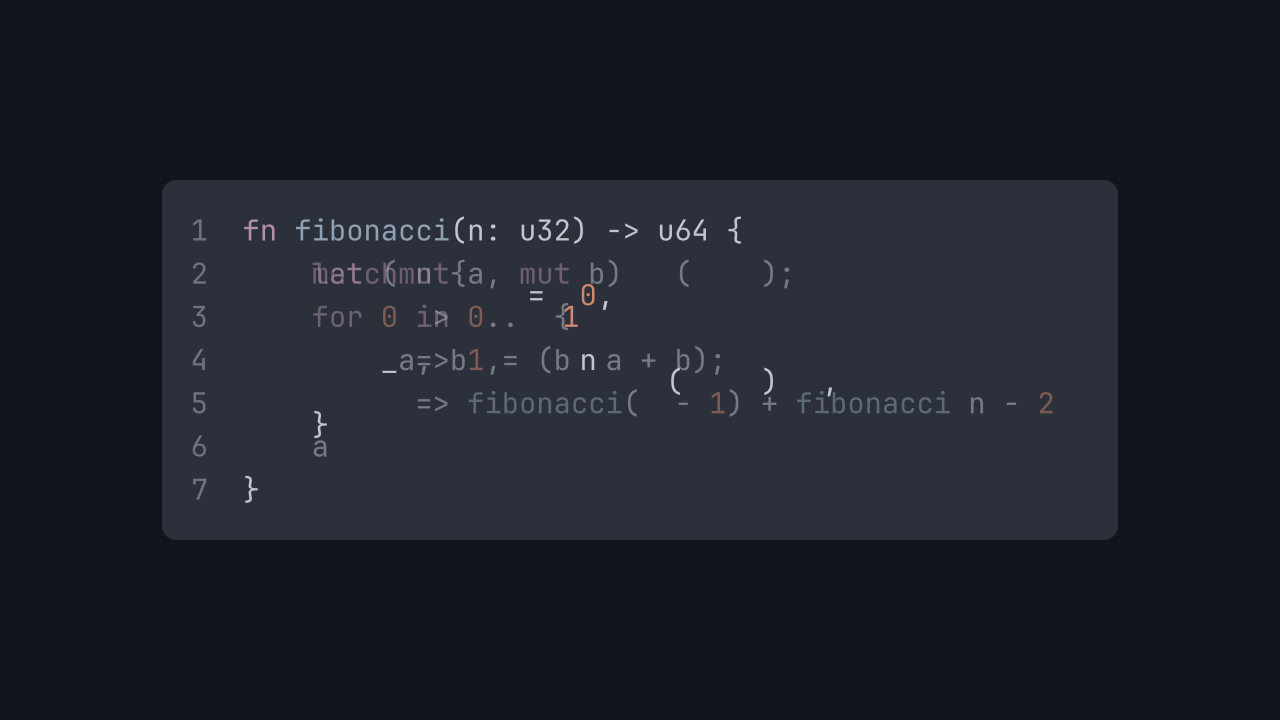
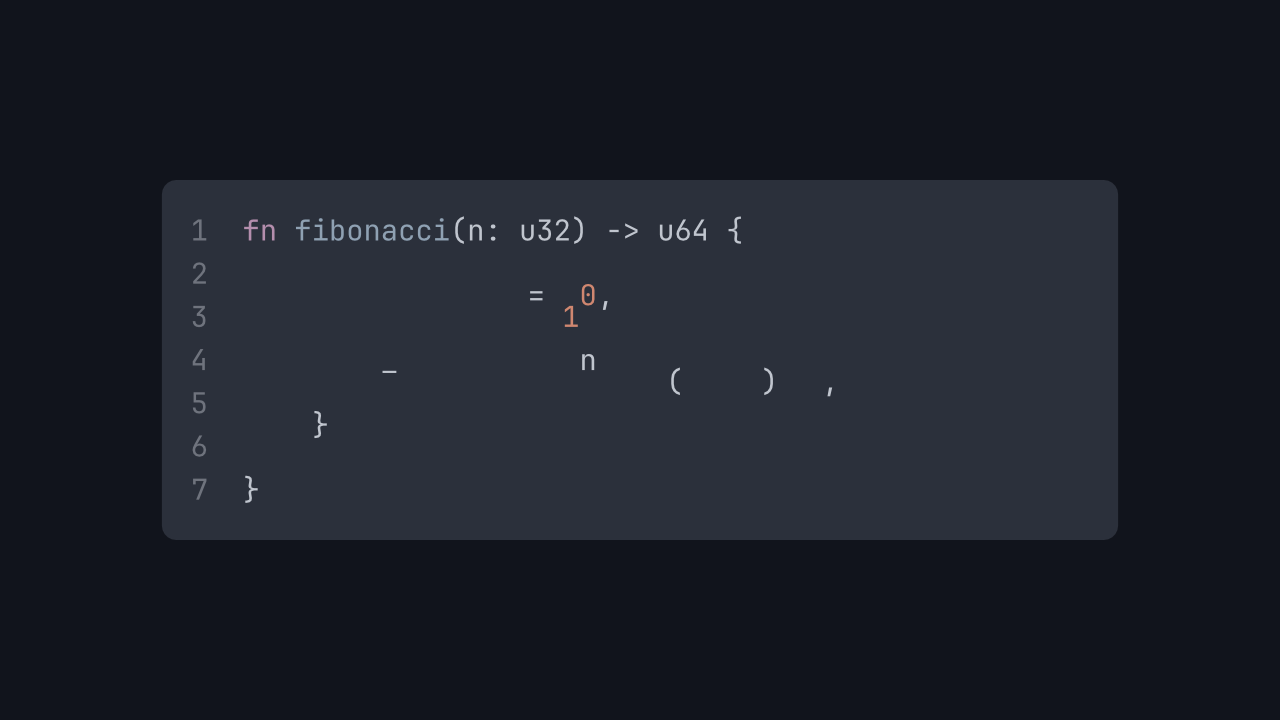
perf(code-snippets): fit animation work within the default sandbox

diff --git a/community/code-snippets/smoke.py b/community/code-snippets/smoke.py
@@ -55,7 +55,7 @@ TARGET = '''fn fibonacci(n: u32) -> u64 {
 
 def render(name, frame=0, **params):
     clip['kind'] = {'Plugin': {'plugin_id': 'org.animathio.community.code-snippets',
-                             'params': dict(code=CODE, code_to=TARGET, font_size=4.0, **params)}}
+                             'params': dict(dict(code=CODE, code_to=TARGET, font_size=4.0), **params)}}
     file = WORK / (name + '.amio')
     with zipfile.ZipFile(file, 'w', zipfile.ZIP_DEFLATED) as z:
         z.writestr('project.json', json.dumps(project))
@@ -65,7 +65,10 @@ def render(name, frame=0, **params):
     image = Image.open(io.BytesIO(png.read_bytes())).convert('RGB')
     # A placeholder or blank canvas must not pass as a successful render.
     colors = dict((rgb, count) for count, rgb in image.getcolors(image.width * image.height))
-    assert colors.get((43, 48, 59), 0) > 1000 if params.get('theme', 'ocean') == 'ocean' and params.get('background', True) else len(colors) > 20, name
+    if params.get('theme', 'ocean') == 'ocean' and params.get('background', True):
+        assert colors.get((43, 48, 59), 0) > 1000, name
+    else:
+        assert any(max(rgb) - min(rgb) > 30 for rgb in colors), name
     print('PASS', name)
     return image
 
@@ -78,8 +81,20 @@ for mode in ['reveal', 'morph']:
     assert frames[f'{mode}-050'].tobytes() != frames[f'{mode}-100'].tobytes()
 assert frames['reveal-100'].tobytes() == frames['morph-000'].tobytes()
 assert frames['morph-050'].tobytes() == render('repeat', mode='morph', progress=0.5).tobytes()
-for language in ['python','javascript','typescript','c','cpp','json','latex','tex','bash']:
-    render('language-' + language, language=language, progress=1)
+samples = {
+    'python': 'def greet(name):\n    # a comment\n    return f"Hello {name}"',
+    'javascript': 'const greet = (name) => "Hello " + name;',
+    'typescript': 'interface User { name: string; }\nconst user: User = { name: "Ada" };',
+    'c': 'int main(void) { /* comment */ return 42; }',
+    'cpp': 'template<typename T> T square(T x) { return x * x; }',
+    'c++': 'const auto answer = 42;',
+    'json': '{"name": "Ada", "active": true, "count": 42}',
+    'latex': r"\frac{a}{b} + \sqrt{2} % comment",
+    'tex': r"\begin{equation} e^{i\pi} + 1 = 0 \end{equation}",
+    'bash': '#!/bin/bash\nfor name in Ada Bob; do\n    echo "$name"\ndone',
+}
+for language, code in samples.items():
+    render('language-' + language.replace('+', 'plus'), language=language, code=code, progress=1)
 render('paper-lines', theme='paper', highlight_lines='2,4-6', reveal_by='line', progress=0.5)
 render('night-transparent', theme='night', background=False, line_numbers=False)
 # Verify the target endpoint against a static rendering with the same box dimensions.
@@ -93,6 +108,8 @@ clip['animations'] = [{'target': {'Param': 'progress'}, 'keys': {
     '705600000': {'value': {'Number': 1.0}, 'interpolation': 'Hold'}}}]
 assert frames['morph-050'].tobytes() == render('keyframed', frame=15, mode='morph', progress=0).tobytes()
 clip['animations'] = []
+render('bounded-lcs', code=('x;' * 16 + '\n') * 8, code_to=('y;' * 16 + '\n') * 8, mode='morph', progress=0.5)
+render('long-comment', code=('// ' + 'a' * 60 + '\n') * 16, progress=1)
 if '--screenshots' in sys.argv:
     out = ROOT / 'screenshots'
     out.mkdir(exist_ok=True)

diff --git a/community/code-snippets/src/lib.rs b/community/code-snippets/src/lib.rs
@@ -12,9 +12,9 @@ use animation::{matches, Token};
 use drawing::{color, Painter};
 
 const CODE: &str = "fn main() {\n    println!(\"Hello, AniMathIO!\");\n}";
-const MAX_BYTES: usize = 8192;
-const MAX_CHARS: usize = 2048;
-const MAX_TOKENS: usize = 512;
+const MAX_BYTES: usize = 4096;
+const MAX_CHARS: usize = 1024;
+const MAX_TOKENS: usize = 256;
 const MAX_LINES: usize = 80;
 struct CodeSnippets;
 
@@ -117,7 +117,7 @@ fn validate(code: &str) -> Result<String, Diagnostic> {
         || code.split('\n').count() > MAX_LINES
     {
         return Err(error(
-            "Code exceeds 8192 bytes, 2048 characters or 80 lines",
+            "Code exceeds 4096 bytes, 1024 characters or 80 lines",
         ));
     }
     // Tabs use four-column tab stops. CRLF has the same layout as LF.
@@ -142,7 +142,7 @@ fn validate(code: &str) -> Result<String, Diagnostic> {
         }
     }
     if result.chars().count() > MAX_CHARS {
-        return Err(error("Expanded tabs exceed 2048 characters"));
+        return Err(error("Expanded tabs exceed 1024 characters"));
     }
     Ok(result)
 }
@@ -219,7 +219,7 @@ fn tokenize(
         }
     }
     if tokens.len() > MAX_TOKENS {
-        return Err(error("Code exceeds 512 syntax tokens"));
+        return Err(error("Code exceeds 256 syntax tokens"));
     }
     Ok(tokens)
 }
@@ -431,6 +431,7 @@ fn render(params: &[ParamEntry], size: Size) -> Result<Scene, Diagnostic> {
             );
         }
     } else if morph {
+        let (travel, leave, enter) = animation::phases(progress);
         let pairs = matches(&old, &new);
         let mut used = vec![false; new.len()];
         for (i, token) in old.iter().enumerate() {
@@ -439,10 +440,10 @@ fn render(params: &[ParamEntry], size: Size) -> Result<Scene, Diagnostic> {
                 let to = &new[j];
                 painter.text(
                     &token.text,
-                    token.column + (to.column - token.column) * progress,
-                    token.line + (to.line - token.line) * progress,
-                    drawing::blend(token.color, to.color, progress),
-                    dim(token.line) + (dim(to.line) - dim(token.line)) * progress,
+                    token.column + (to.column - token.column) * travel,
+                    token.line + (to.line - token.line) * travel,
+                    drawing::blend(token.color, to.color, travel),
+                    dim(token.line) + (dim(to.line) - dim(token.line)) * travel,
                 );
             } else {
                 painter.text(
@@ -450,18 +451,17 @@ fn render(params: &[ParamEntry], size: Size) -> Result<Scene, Diagnostic> {
                     token.column,
                     token.line,
                     token.color,
-                    (1.0 - progress) * dim(token.line),
+                    leave * dim(token.line),
                 );
             }
         }
-        for (i, token) in new.iter().enumerate().filter(|(i, _)| !used[*i]) {
-            let _ = i;
+        for (_, token) in new.iter().enumerate().filter(|(i, _)| !used[*i]) {
             painter.text(
                 &token.text,
                 token.column,
                 token.line,
                 token.color,
-                progress * dim(token.line),
+                enter * dim(token.line),
             );
         }
     } else {

diff --git a/community/code-snippets/src/drawing.rs b/community/code-snippets/src/drawing.rs
@@ -21,6 +21,7 @@ pub fn blend(a: Color, b: Color, t: f32) -> Color {
 pub struct Painter<'a> {
     pub elements: Vec<DrawCommand>,
     font: Face<'a>,
+    glyphs: std::collections::BTreeMap<char, Vec<PathVerb>>,
     scale: f32,
     advance: f32,
     line_height: f32,
@@ -59,6 +60,7 @@ impl Painter<'static> {
         Self {
             elements: vec![],
             font,
+            glyphs: std::collections::BTreeMap::new(),
             scale,
             advance,
             line_height: font_size * fit * 1.5,
@@ -104,21 +106,44 @@ impl Painter<'static> {
             return;
         }
         for (index, c) in text.chars().enumerate() {
-            let glyph = self
-                .font
-                .glyph_index(c)
-                .or_else(|| self.font.glyph_index('\u{fffd}'))
-                .unwrap();
-            let mut outline = Outline {
-                path: vec![],
-                scale: self.scale,
-                x: self.x + (column + index as f32) * self.advance,
-                y: self.y + line * self.line_height,
+            let font = &self.font;
+            let scale = self.scale;
+            let path = self.glyphs.entry(c).or_insert_with(|| {
+                let glyph = font
+                    .glyph_index(c)
+                    .or_else(|| font.glyph_index('\u{fffd}'))
+                    .or_else(|| font.glyph_index('?'))
+                    .expect("embedded fallback glyph");
+                let mut outline = Outline {
+                    path: vec![],
+                    scale,
+                    x: 0.0,
+                    y: 0.0,
+                };
+                font.outline_glyph(glyph, &mut outline);
+                outline.path
+            });
+            let x = self.x + (column + index as f32) * self.advance;
+            let y = self.y + line * self.line_height;
+            let point = |p: &Point| Point {
+                x: p.x + x,
+                y: p.y + y,
             };
-            self.font.outline_glyph(glyph, &mut outline);
-            if !outline.path.is_empty() {
+            let translated = path
+                .iter()
+                .map(|v| match v {
+                    PathVerb::MoveTo(p) => PathVerb::MoveTo(point(p)),
+                    PathVerb::LineTo(p) => PathVerb::LineTo(point(p)),
+                    PathVerb::QuadTo((a, b)) => PathVerb::QuadTo((point(a), point(b))),
+                    PathVerb::CubicTo((a, b, c)) => {
+                        PathVerb::CubicTo((point(a), point(b), point(c)))
+                    }
+                    PathVerb::Close => PathVerb::Close,
+                })
+                .collect::<Vec<_>>();
+            if !translated.is_empty() {
                 self.elements
-                    .push(DrawCommand::FillPath((outline.path, color)));
+                    .push(DrawCommand::FillPath((translated, color)));
             }
         }
     }

diff --git a/community/code-snippets/src/animation.rs b/community/code-snippets/src/animation.rs
@@ -9,13 +9,30 @@ pub struct Token {
 }
 
 /// Bounded token LCS, with stable tie-breaking for repeated punctuation.
-/// At most 513² u16 cells (inputs are capped at 512 tokens before this call).
+/// At most 257² u16 cells (inputs are capped at 256 tokens before this call).
 pub fn matches(from: &[Token], to: &[Token]) -> Vec<Option<usize>> {
+    // Intern text once so the quadratic loop compares integers, not UTF-8 strings.
+    let mut vocabulary = std::collections::BTreeMap::new();
+    let mut next_id = 0u16;
+    let mut ids = |tokens: &[Token]| {
+        tokens
+            .iter()
+            .map(|t| {
+                *vocabulary.entry(t.text.clone()).or_insert_with(|| {
+                    let id = next_id;
+                    next_id += 1;
+                    id
+                })
+            })
+            .collect::<Vec<_>>()
+    };
+    let from_ids = ids(from);
+    let to_ids = ids(to);
     let width = to.len() + 1;
     let mut lengths = vec![0u16; (from.len() + 1) * width];
     for i in (0..from.len()).rev() {
         for j in (0..to.len()).rev() {
-            lengths[i * width + j] = if from[i].text == to[j].text {
+            lengths[i * width + j] = if from_ids[i] == to_ids[j] {
                 lengths[(i + 1) * width + j + 1] + 1
             } else {
                 lengths[(i + 1) * width + j].max(lengths[i * width + j + 1])
@@ -25,7 +42,7 @@ pub fn matches(from: &[Token], to: &[Token]) -> Vec<Option<usize>> {
     let mut result = vec![None; from.len()];
     let (mut i, mut j) = (0, 0);
     while i < from.len() && j < to.len() {
-        if from[i].text == to[j].text {
+        if from_ids[i] == to_ids[j] {
             result[i] = Some(j);
             i += 1;
             j += 1;
@@ -56,4 +73,13 @@ pub fn matches(from: &[Token], to: &[Token]) -> Vec<Option<usize>> {
         }
     }
     result
+}
+
+/// Stage exits before entries, like Magic Move, to avoid two opaque edits colliding.
+pub fn phases(progress: f32) -> (f32, f32, f32) {
+    (
+        ((progress - 0.2) / 0.6).clamp(0.0, 1.0),
+        (1.0 - progress / 0.3).clamp(0.0, 1.0),
+        ((progress - 0.7) / 0.3).clamp(0.0, 1.0),
+    )
 }

diff --git a/community/code-snippets/src/tests.rs b/community/code-snippets/src/tests.rs
@@ -167,3 +167,15 @@ fn line_reveal_keeps_glyph_counters_and_layout() {
         panic!("expected glyph path");
     }
 }
+
+#[test]
+fn morph_phases_separate_entering_and_leaving_tokens() {
+    assert_eq!(animation::phases(0.), (0., 1., 0.));
+    assert_eq!(animation::phases(0.5), (0.5, 0., 0.));
+    let (travel, leave, enter) = animation::phases(1.);
+    assert_eq!((travel, leave, enter), (1., 0., 1.));
+    let _ = snapshot(&params(&[(
+        "code",
+        ParamValue::String("你好 🙂 e\u{301}".into()),
+    )]));
+}

diff --git a/scripts/smoke.py b/scripts/smoke.py
@@ -1,5 +1,5 @@
 #!/usr/bin/env python3
-"""Render every source, then verify invert changes a frame and is self-inverse."""
+"""Render the circle examples, then verify invert changes a frame and is self-inverse."""
 import io
 from PIL import Image
 import json

diff --git a/community/code-snippets/README.md b/community/code-snippets/README.md
@@ -6,7 +6,8 @@ Plugin ID: `org.animathio.community.code-snippets`.
 
 A behavioral port of [Shiki Magic Move](https://github.com/shikijs/shiki-magic-move/tree/v1.1.0)
 by Anthony Fu (**MIT**): retained tokens slide to their new positions while removed
-and added tokens fade. We studied its token key synchronization and enter/leave/move
+and added tokens fade. Exits fade during 0–30% progress, retained tokens move
+during 20–80%, and entries fade during 70–100% to reduce overlapping edits. We studied its token key synchronization and enter/leave/move
 renderer, then implemented bounded token LCS and vector drawing in Rust. No upstream
 animation code is copied. See [NOTICE](NOTICE) and its retained MIT license.
 
@@ -94,9 +95,9 @@ JS template interpolation, shell heredocs and embedded TeX languages are not par
 Layout uses one cell per Unicode scalar (no ligatures, grapheme shaping, bidi or
 wide-character cells). Missing font glyphs use a replacement glyph.
 
-Each snippet is capped at 8192 UTF-8 bytes, 2048 Unicode scalar values after tab
-expansion, 80 lines and 512 highlighted tokens. The `highlight_lines` string is at
-most 512 bytes, with ranges in 1–80. Token LCS uses at most 513² `u16` cells;
+Each snippet is capped at 4096 UTF-8 bytes, 1024 Unicode scalar values after tab
+expansion, 80 lines and 256 highlighted tokens. The `highlight_lines` string is at
+most 512 bytes, with ranges in 1–80. Token LCS uses at most 257² `u16` cells;
 subsequent moved-identifier matching is one-to-one and deterministic. Duplicate
 matches resolve in source order. All output is recomputed from parameters; calls
 and seek order do not affect it. These bounds protect memory/CPU; the host retains
@@ -105,6 +106,9 @@ rejected by the sandbox. Full editor integration, semantic parsing, arbitrary fo
 custom themes, selection rectangles and multi-step transitions are deferred.
 
 ## Verification
+
+Verified bundle size: **794,661 bytes (776 KiB)**; the uncompressed component is
+2,395,050 bytes. The bundle includes the component, manifest and license notices.
 
 ```sh
 # Apply the shared machine resource limits to every cargo invocation.
@@ -118,6 +122,7 @@ The smoke script creates `.amio` fixtures under `target/smoke`, renders both mod
 at 0/50/100%, checks exact endpoints with equal layout extents, repeatability,
 all language choices, both dark themes, the light theme, line selection, no-panel
 rendering and a host-sampled typed `progress` keyframe at 0.5 seconds. It checks
-panel pixels to reject error placeholders. `--screenshots` refreshes README PNGs;
+panel pixels to reject error placeholders and exercises a 256-token-per-side LCS
+and a 1,024-character comment under the default sandbox limits. `--screenshots` refreshes README PNGs;
 look at them before committing. CI also builds for `wasm32-wasip2` and runs these
 checks against the released 2.1.0 CLI. No desktop window or audio device is opened.
